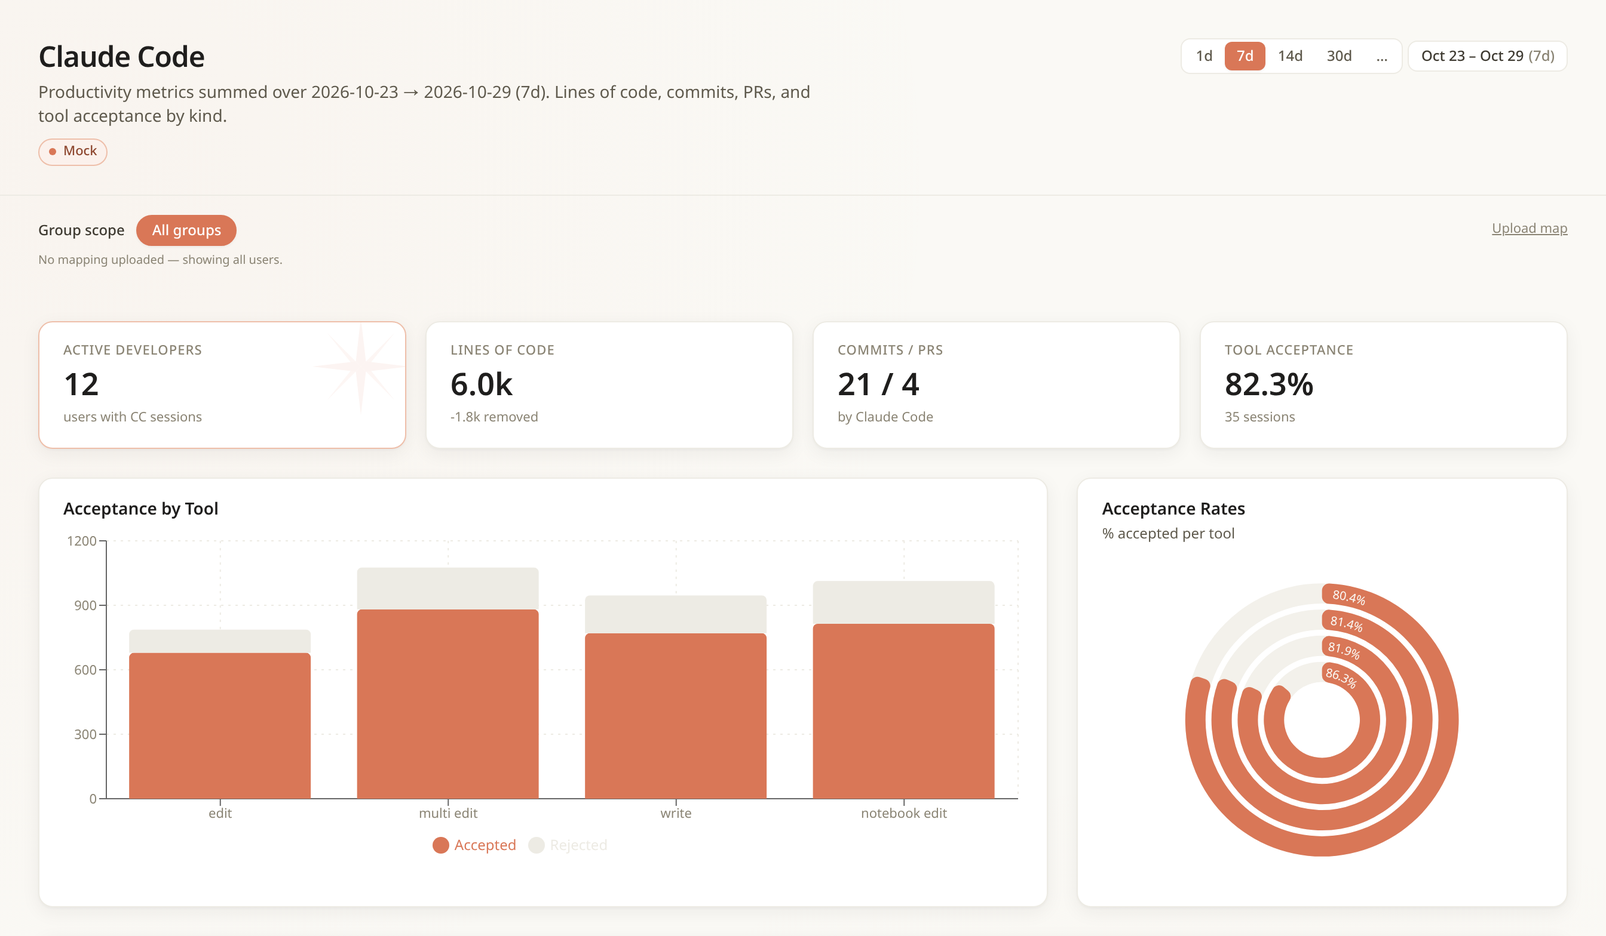
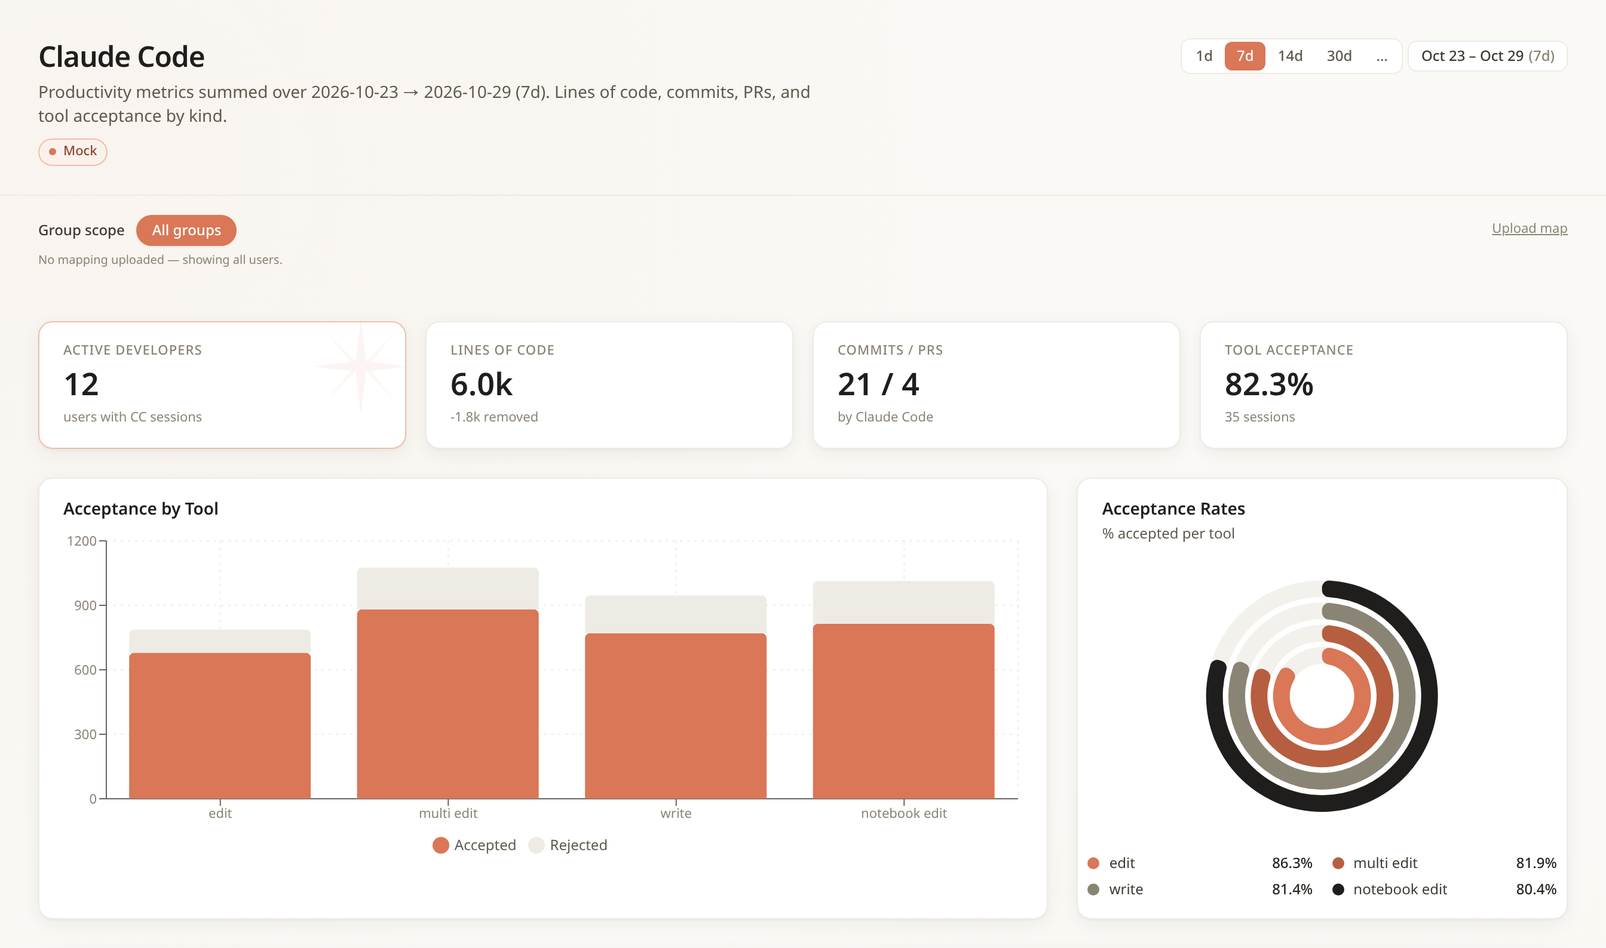
docs(site): 브로셔에 릴리스 기록 타임라인 추가, 표기 수정 화면 3장 재캡처, 내비 줄바꿈 수정
- 릴리스 기록(#releases): kiro-dashboard 브로셔 형식의 세로 타임라인 — 최신 순 14카드
  (버전·날짜·주제 칩·핵심 변화, 최신 카드 강조 + "최신" 칩), v1.6.0+는 GitHub 태그 링크(↗),
  같은 날 연속 릴리스는 묶음 카드(v1.0→v1.5, v0.7→v0.9, v0.2→v0.6), CHANGELOG·Releases 버튼.
  상단 메뉴 "릴리스", 푸터 "최신 릴리스 v2.7.0" 링크
- 콘텐츠 리뷰 89점(14카드 날짜·버전 귀속·태그 링크 전수 대조) 지적 반영: v1.6(지출 기반 추정)과
  v1.8(실제 멤버십 동기화) 구분, v2.6 기존 동작 표현, v2.7 화면 목록, v2.2·v2.3 머리글, 어휘 다듬기,
  한국어 킥커, role="list", 기간 <time> 분리, .mono 고정폭
- 내비: 링크 추가로 1180px 고정 폭이 넘쳐 데스크톱 전 폭에서 글자가 꺾이던 문제(881~1100px은 기존
  결함) — nowrap + 1220px 이하 브랜드 칩·1040px 이하 앵커 2개 숨김 + 380px 이하 압축, 320~1600px
  스윕으로 넘침 0 확인. 본문 word-break:keep-all로 한국어 낱말 중간 줄바꿈 방지
- 재캡처: Overview("added on 날짜"), Claude Code(링 색 구분 + 범례), Cost("Cost reports API" 부제)
  — 운영 배포(:127) 이후 화면과 일치

diff --git a/site/index.html b/site/index.html
@@ -58,6 +58,8 @@
     font-family:var(--sans); font-size:17px; line-height:1.6;
     font-feature-settings:"ss01","cv01"; -webkit-font-smoothing:antialiased;
     text-rendering:optimizeLegibility; overflow-x:hidden;
+    /* Korean wraps between words, not inside them; long ids may still break. */
+    word-break:keep-all; overflow-wrap:anywhere;
   }
   body::before{
     content:""; position:fixed; inset:0; z-index:0; pointer-events:none; opacity:.5;
@@ -79,11 +81,12 @@
   }
   .nav-in{display:flex; align-items:center; gap:24px; height:64px}
   .brand{display:flex; align-items:center; gap:11px; font-weight:600; letter-spacing:-.01em}
+  .nav .brand{white-space:nowrap}
   .brand .mark{width:30px; height:30px}
   .brand b{font-family:var(--serif); font-weight:600; font-size:20px; letter-spacing:-.02em}
   .brand .mono{font-family:var(--mono); font-size:11px; color:var(--text-3); padding:2px 7px; border:1px solid var(--line-2); border-radius:99px; letter-spacing:0}
-  .nav-links{margin-left:auto; display:flex; gap:28px; align-items:center}
-  .nav-links a{font-size:14.5px; color:var(--text-2); transition:color .2s}
+  .nav-links{margin-left:auto; display:flex; gap:22px; align-items:center}
+  .nav-links a{font-size:14.5px; color:var(--text-2); transition:color .2s; white-space:nowrap}
   .nav-links a:hover{color:var(--brand-ink)}
   .nav-gh{display:inline-flex; align-items:center; gap:7px}
   .nav-cta{
@@ -91,7 +94,18 @@
     padding:9px 16px; border-radius:99px; transition:transform .2s, background .2s; white-space:nowrap;
   }
   .nav-cta:hover{background:var(--acc-700); transform:translateY(-1px)}
+  /* Labels never wrap; as the bar narrows, drop the brand pill, then the two
+     anchors whose sections sit next to others still linked. */
+  @media (max-width:1220px){ .nav .brand .mono{display:none} }
+  @media (max-width:1040px){ .nav-links a[href="#value"], .nav-links a[href="#trust"]{display:none} }
   @media (max-width:880px){ .nav-links a:not(.nav-cta){display:none} }
+  @media (max-width:380px){
+    .nav .nav-in{gap:8px}
+    .nav .brand{gap:8px}
+    .nav .brand .mark{width:24px; height:24px}
+    .nav .brand b{font-size:15px}
+    .nav .nav-cta{padding:7px 11px; font-size:13px}
+  }
   @media (max-width:640px){
     .brand .mono{display:none}
     .brand b{font-size:17px; white-space:nowrap}
@@ -278,6 +292,38 @@
   .cta-box .btn-ghost:hover{border-color:var(--paper)}
   .cta-box .mono{font-family:var(--mono); font-size:13px}
 
+  /* ---------- release timeline ---------- */
+  .timeline{list-style:none; margin:0; padding:0; position:relative; display:flex; flex-direction:column; gap:16px; max-width:900px}
+  .timeline::before{content:""; position:absolute; left:11px; top:26px; bottom:26px; width:2px; background:var(--line-2)}
+  .rel{display:grid; grid-template-columns:24px 1fr; gap:18px; position:relative}
+  .rel-dot{width:14px; height:14px; border-radius:99px; background:var(--surface); border:2px solid var(--ink-200); margin:24px auto 0; position:relative; z-index:1}
+  .rel-hi .rel-dot{background:var(--brand); border-color:var(--brand); box-shadow:0 0 0 5px rgba(217,119,87,.18)}
+  .rel-card{background:var(--surface); border:1px solid var(--line); border-radius:var(--r); padding:20px 24px; box-shadow:var(--shadow-card)}
+  .rel-hi .rel-card{border-color:var(--acc-200); background:linear-gradient(180deg, var(--acc-50), var(--surface) 70%)}
+  .rel-head{display:flex; align-items:baseline; flex-wrap:wrap; gap:6px 12px; margin-bottom:12px}
+  .rel-ver{font-weight:800; font-size:20px; letter-spacing:-.02em; color:var(--text); margin:0}
+  .rel-ver a{color:inherit; text-decoration:none}
+  .rel-ver a:hover{color:var(--brand-ink); text-decoration:underline; text-underline-offset:3px}
+  .rel-ver a::after{content:"↗"; content:"↗" / ""; font-size:.62em; font-weight:600; margin-left:3px; color:var(--text-3); vertical-align:.45em}
+  .rel-ver .sep{color:var(--text-3); font-weight:500; margin:0 2px}
+  .rel-hi .rel-ver{color:var(--brand-ink)}
+  .rel-latest{font-family:var(--mono); font-size:11px; letter-spacing:.06em; text-transform:uppercase; color:var(--white); background:var(--brand-ink); border-radius:99px; padding:2px 9px}
+  .rel-date{font-family:var(--mono); font-size:12px; color:var(--text-3)}
+  .rel-theme{font-size:12.5px; color:var(--text-2); background:var(--sunken); border:1px solid var(--line); border-radius:99px; padding:3px 11px}
+  .rel-feats{list-style:none; margin:0; padding:0; display:grid; gap:7px}
+  .rel-feats li{position:relative; padding-left:18px; color:var(--text-2); font-size:14.5px; line-height:1.55}
+  .mono{font-family:var(--mono)}
+  .rel-feats .mono, .checklist .mono{font-size:.92em}
+  .rel-feats li::before{content:""; position:absolute; left:2px; top:.62em; width:6px; height:6px; border-radius:2px; background:var(--brand); opacity:.7}
+  .rel-more{margin-top:28px; display:flex; flex-wrap:wrap; gap:12px}
+  @media (max-width:640px){
+    .timeline::before{left:7px}
+    .rel{grid-template-columns:16px 1fr; gap:12px}
+    .rel-dot{width:12px; height:12px}
+    .rel-card{padding:16px 18px}
+    .rel-ver{font-size:18px}
+  }
+
   /* ---------- footer ---------- */
   footer{border-top:1px solid var(--line); padding:40px 0; margin-top:80px}
   .foot-in{display:flex; flex-direction:column; gap:10px; align-items:center; justify-content:center; text-align:center; font-size:13px; color:var(--text-3)}
@@ -349,6 +395,7 @@
       <a href="#screens">화면 둘러보기</a>
       <a href="#architecture">동작 원리</a>
       <a href="#trust">데이터 & 보안</a>
+      <a href="#releases">릴리스</a>
       <a class="nav-gh" href="https://github.com/whchoi98/claude-code-dashboard" target="_blank" rel="noopener" aria-label="GitHub 저장소 (새 창)">
         <svg width="16" height="16" viewBox="0 0 16 16" fill="currentColor" aria-hidden="true" focusable="false"><path d="M8 0C3.58 0 0 3.58 0 8c0 3.54 2.29 6.53 5.47 7.59.4.07.55-.17.55-.38 0-.19-.01-.82-.01-1.49-2.01.37-2.53-.49-2.69-.94-.09-.23-.48-.94-.82-1.13-.28-.15-.68-.52-.01-.53.63-.01 1.08.58 1.23.82.72 1.21 1.87.87 2.33.66.07-.52.28-.87.51-1.07-1.78-.2-3.64-.89-3.64-3.95 0-.87.31-1.59.82-2.15-.08-.2-.36-1.02.08-2.12 0 0 .67-.21 2.2.82a7.5 7.5 0 0 1 2-.27c.68 0 1.36.09 2 .27 1.53-1.04 2.2-.82 2.2-.82.44 1.1.16 1.92.08 2.12.51.56.82 1.27.82 2.15 0 3.07-1.87 3.75-3.65 3.95.29.25.54.73.54 1.48 0 1.07-.01 1.93-.01 2.2 0 .21.15.46.55.38A8.01 8.01 0 0 0 16 8c0-4.42-3.58-8-8-8z"/></svg>
         GitHub
@@ -559,7 +606,7 @@
         </div>
       </figure>
       <figure class="shot-card reveal">
-        <button type="button" class="shot-img" data-lightbox-index="3"><img src="img/claude-code.png" loading="lazy" alt="활성 개발자, LOC, 커밋·PR, 도구 수락률 KPI와 도구별 수락·거절 막대 차트, 도구별 수락률 방사형 막대 차트를 보여주는 Claude Code 화면 — 합성 데이터" width="2688" height="1568"><span class="zoom-hint">크게 보기 <span aria-hidden="true">⤢</span></span></button>
+        <button type="button" class="shot-img" data-lightbox-index="3"><img src="img/claude-code.png" loading="lazy" alt="활성 개발자, LOC, 커밋·PR, 도구 수락률 KPI와 도구별 수락·거절 막대 차트, 도구별 수락률 방사형 막대 차트를 보여주는 Claude Code 화면 — 합성 데이터" width="2688" height="1588"><span class="zoom-hint">크게 보기 <span aria-hidden="true">⤢</span></span></button>
         <div class="shot-body">
           <div class="shot-kicker">Claude Code</div>
           <h3>코드 생산성 지표</h3>
@@ -734,6 +781,178 @@
   </div>
 </section>
 
+<!-- ===================== RELEASES ===================== -->
+<section class="sec" id="releases" style="padding-top:0" tabindex="-1">
+  <div class="wrap">
+    <div class="sec-head reveal">
+      <div class="kicker">릴리스 기록 · v0.1 → v2.7</div>
+      <h2>첫 출시부터 지금까지, <em>릴리스로 보는 성장</em>.</h2>
+      <p>11개 화면으로 시작한 v0.1 이후 도구 호출 챗봇(v0.7), 그룹별 비용(v1.6), 멀티 조직(v2.0), 비용 실시간(v2.2)을 거쳐 Chat·Cowork 통합(v2.7)까지 왔습니다. 주요 버전의 핵심 변화를 최신 순으로 모았습니다.</p>
+    </div>
+    <ol class="timeline" role="list" aria-label="릴리스 기록, 최신 순">
+    <li class="rel rel-hi reveal">
+      <span class="rel-dot" aria-hidden="true"></span>
+      <div class="rel-card">
+        <div class="rel-head">
+          <h3 class="rel-ver"><a href="https://github.com/whchoi98/claude-code-dashboard/releases/tag/v2.7.0" target="_blank" rel="noopener">v2.7.0<span class="sr-only"> 릴리스 노트(새 창)</span></a></h3>
+          <span class="rel-latest">최신</span>
+          <time class="rel-date" datetime="2026-10-29">2026-10-29</time>
+          <span class="rel-theme">Chat·Cowork 통합 · 그룹 활동 · 플러그인 카탈로그</span>
+        </div>
+        <ul class="rel-feats" role="list"><li>Chat·Cowork 통합(Chat and Cowork unified) 활동을 Chat·Cowork·사용자·사용자 생산성·사용자 검색·Agentic·도입 집계와 사용자 상세 패널에 합산하고, 추세·Cowork에는 통합 활성 사용자를 별도 선으로 표시</li><li>사용자 생산성에 RBAC 그룹별 활동 비교 표</li><li>감사에 역할별 멤버와 사용자 지정 지침 저장 현황 — 지침 원문은 unmasked 그룹 관리자만 열람</li><li>도입에 Plugins API(beta) 플러그인 카탈로그와 아티팩트 카드, 컬렉터의 <span class="mono">artifacts_daily</span> 일일 보관</li><li>API 버전 2026-10-21의 필드 제거에 대비해 대체 필드(<span class="mono">actor.email_address</span>, <span class="mono">data</span>)로 전환</li></ul>
+      </div>
+    </li>
+    <li class="rel reveal">
+      <span class="rel-dot" aria-hidden="true"></span>
+      <div class="rel-card">
+        <div class="rel-head">
+          <h3 class="rel-ver"><a href="https://github.com/whchoi98/claude-code-dashboard/releases/tag/v2.6.0" target="_blank" rel="noopener">v2.6.0<span class="sr-only"> 릴리스 노트(새 창)</span></a></h3>
+          <time class="rel-date" datetime="2026-10-29">2026-10-29</time>
+          <span class="rel-theme">Claude Sonnet 5.5</span>
+        </div>
+        <ul class="rel-feats" role="list"><li>AI 분석과 플로팅 챗봇을 Claude Sonnet 4.6에서 Claude Sonnet 5.5(Bedrock 글로벌 추론 프로필)로 전환 — 후속 질문 생성도 같은 모델</li><li>요청이 거절되면 빈 답변 대신 상태 메시지를 표시 — 도구 호출 사이의 진행 메모는 전처럼 표시</li></ul>
+      </div>
+    </li>
+    <li class="rel reveal">
+      <span class="rel-dot" aria-hidden="true"></span>
+      <div class="rel-card">
+        <div class="rel-head">
+          <h3 class="rel-ver"><a href="https://github.com/whchoi98/claude-code-dashboard/releases/tag/v2.5.0" target="_blank" rel="noopener">v2.5.0<span class="sr-only"> 릴리스 노트(새 창)</span></a></h3>
+          <time class="rel-date" datetime="2026-09-26">2026-09-26</time>
+          <span class="rel-theme">제품별 추세 · 도입 심화 · 감사 정확도</span>
+        </div>
+        <ul class="rel-feats" role="list"><li>추세에 제품별 활성 사용자 차트(Claude Code·Chat·Cowork·Claude Design·Office Agents·Claude Science), DAU/WAU/MAU 전환</li><li>도입에 스킬 사용·지출, 커넥터 읽기·쓰기 호출, <span class="mono">third-party</span> 플러그인 집계</li><li>감사 위험·로그인 분류를 API 활동 타입에 맞추고 행위자 11종을 식별하며, 1,000건 단위 페이지 조회로 감사 API 요청을 약 10분의 1로 줄임</li><li>2026-09-24 이전에 보관된 파일·아티팩트 이름은 관리자만 열람</li></ul>
+      </div>
+    </li>
+    <li class="rel reveal">
+      <span class="rel-dot" aria-hidden="true"></span>
+      <div class="rel-card">
+        <div class="rel-head">
+          <h3 class="rel-ver"><a href="https://github.com/whchoi98/claude-code-dashboard/releases/tag/v2.4.0" target="_blank" rel="noopener">v2.4.0<span class="sr-only"> 릴리스 노트(새 창)</span></a></h3>
+          <time class="rel-date" datetime="2026-09-22">2026-09-22</time>
+          <span class="rel-theme">탐색 · 내보내기 · 안정성</span>
+        </div>
+        <ul class="rel-feats" role="list"><li>Ctrl/⌘+K 메뉴 검색, 사용자·비용 실시간 표의 CSV 내보내기(화면과 같은 마스킹, 수식 실행 방지)</li><li>키보드 정렬·모바일 포커스 관리·조회 재시도와 프런트엔드·브라우저 회귀 테스트</li><li>화면별 지연 로딩과 오류 복구, 오래된 조회 취소·시간 초과 처리</li></ul>
+      </div>
+    </li>
+    <li class="rel reveal">
+      <span class="rel-dot" aria-hidden="true"></span>
+      <div class="rel-card">
+        <div class="rel-head">
+          <h3 class="rel-ver"><a href="https://github.com/whchoi98/claude-code-dashboard/releases/tag/v2.2.0" target="_blank" rel="noopener">v2.2.0<span class="sr-only"> 릴리스 노트(새 창)</span></a><span class="sep" aria-hidden="true">·</span><a href="https://github.com/whchoi98/claude-code-dashboard/releases/tag/v2.3.0" target="_blank" rel="noopener">v2.3.0<span class="sr-only"> 릴리스 노트(새 창)</span></a></h3>
+          <time class="rel-date" datetime="2026-09-01">2026-09-01</time>
+          <span class="rel-theme">비용 실시간 · 홈 화면 앱</span>
+        </div>
+        <ul class="rel-feats" role="list"><li>Spend Limits API 기반 비용 실시간(MTD) 페이지 — 멤버별 월 누적 지출·한도, 그룹별 합계, 자동 갱신</li><li>v2.3.0(같은 날): 월 누적 지출을 15분마다 S3에 보관해 과거 시점을 조회하고, 보관 전 날짜는 그날 마감 기준 값으로 재구성</li><li>로그인 계정 권한(Cognito <span class="mono">unmasked</span> 그룹)에 따른 이메일 마스킹, iOS·iPadOS 홈 화면 설치</li></ul>
+      </div>
+    </li>
+    <li class="rel reveal">
+      <span class="rel-dot" aria-hidden="true"></span>
+      <div class="rel-card">
+        <div class="rel-head">
+          <h3 class="rel-ver"><a href="https://github.com/whchoi98/claude-code-dashboard/releases/tag/v2.0.0" target="_blank" rel="noopener">v2.0.0<span class="sr-only"> 릴리스 노트(새 창)</span></a></h3>
+          <time class="rel-date" datetime="2026-07-22">2026-07-22</time>
+          <span class="rel-theme">멀티 조직 · 감사 아카이브</span>
+        </div>
+        <ul class="rel-feats" role="list"><li>두 번째 Anthropic 구독을 사이드바에서 전환하는 멀티 조직 지원</li><li>감사 이벤트를 S3·Athena(<span class="mono">compliance_daily</span>)로 보관하고 이벤트 상세 패널 추가</li><li>31일을 넘는 모든 조회 기간의 수치 오류 수정 — 비용 리포트는 31일 구간으로 나눠 병합</li><li>컬렉터 원본 사이드카 보관, 공개 브로셔(GitHub Pages)</li></ul>
+      </div>
+    </li>
+    <li class="rel reveal">
+      <span class="rel-dot" aria-hidden="true"></span>
+      <div class="rel-card">
+        <div class="rel-head">
+          <h3 class="rel-ver"><a href="https://github.com/whchoi98/claude-code-dashboard/releases/tag/v1.9.0" target="_blank" rel="noopener">v1.9.0<span class="sr-only"> 릴리스 노트(새 창)</span></a></h3>
+          <time class="rel-date" datetime="2026-07-12">2026-07-12</time>
+          <span class="rel-theme">Claude Chat · 모바일</span>
+        </div>
+        <ul class="rel-feats" role="list"><li>Claude Chat 페이지 — 대화·프로젝트 사용량과 사용자별 표</li><li>사용자별 캐시 효율, 사용자 표 열 확장, Claude Code 사용자별 표</li><li>모바일 지원 — 슬라이드 메뉴와 반응형 레이아웃</li></ul>
+      </div>
+    </li>
+    <li class="rel reveal">
+      <span class="rel-dot" aria-hidden="true"></span>
+      <div class="rel-card">
+        <div class="rel-head">
+          <h3 class="rel-ver"><a href="https://github.com/whchoi98/claude-code-dashboard/releases/tag/v1.8.0" target="_blank" rel="noopener">v1.8.0<span class="sr-only"> 릴리스 노트(새 창)</span></a></h3>
+          <time class="rel-date" datetime="2026-07-12">2026-07-12</time>
+          <span class="rel-theme">실제 그룹 멤버십 동기화 · 응답 속도</span>
+        </div>
+        <ul class="rel-feats" role="list"><li>Compliance 멤버 API로 실제 RBAC 그룹 구성원을 받아 1시간 안에 반영</li><li>비용 페이지에 그룹 범위 적용, 사용자별 모델 지출</li><li>비용 응답 10분 캐시·keep-warm·전송 압축으로 응답 속도 개선</li></ul>
+      </div>
+    </li>
+    <li class="rel reveal">
+      <span class="rel-dot" aria-hidden="true"></span>
+      <div class="rel-card">
+        <div class="rel-head">
+          <h3 class="rel-ver"><a href="https://github.com/whchoi98/claude-code-dashboard/releases/tag/v1.7.0" target="_blank" rel="noopener">v1.7.0<span class="sr-only"> 릴리스 노트(새 창)</span></a></h3>
+          <time class="rel-date" datetime="2026-07-08">2026-07-08</time>
+          <span class="rel-theme">Agentic · 페이지별 그룹 탭</span>
+        </div>
+        <ul class="rel-feats" role="list"><li>Agentic 페이지 — 프롬프트당 액션·위임 지표</li><li>그룹 범위를 사이드바 선택에서 페이지별 탭으로 이동, 사용자 상세 패널 확장</li></ul>
+      </div>
+    </li>
+    <li class="rel reveal">
+      <span class="rel-dot" aria-hidden="true"></span>
+      <div class="rel-card">
+        <div class="rel-head">
+          <h3 class="rel-ver"><a href="https://github.com/whchoi98/claude-code-dashboard/releases/tag/v1.6.0" target="_blank" rel="noopener">v1.6.0<span class="sr-only"> 릴리스 노트(새 창)</span></a></h3>
+          <time class="rel-date" datetime="2026-07-04">2026-07-04</time>
+          <span class="rel-theme">그룹별 비용 · 지출 한도</span>
+        </div>
+        <ul class="rel-feats" role="list"><li>그룹별 비용·월간 지출 한도 카드, 라이브 사용자별 토큰 표</li><li>지출 기록으로 그룹 자동 추정, 전용 Compliance 키가 없으면 Analytics 키로 자동 대체</li><li>CSV 지출 리포트를 폴백·대조용으로 전환 — 라이브 비용 리포트가 기본</li></ul>
+      </div>
+    </li>
+    <li class="rel reveal">
+      <span class="rel-dot" aria-hidden="true"></span>
+      <div class="rel-card">
+        <div class="rel-head">
+          <h3 class="rel-ver">v1.0 → v1.5</h3>
+          <time class="rel-date" datetime="2026-06-17">2026-06-17</time>
+          <span class="rel-theme">제품별 페이지 · 그룹 범위</span>
+        </div>
+        <ul class="rel-feats" role="list"><li>Cowork 페이지(1.0), Office·Design 페이지(1.1)</li><li>비용 효율 점수 재설계(1.2·1.3), 대시보드 전반의 그룹 범위(1.4·1.5)</li></ul>
+      </div>
+    </li>
+    <li class="rel reveal">
+      <span class="rel-dot" aria-hidden="true"></span>
+      <div class="rel-card">
+        <div class="rel-head">
+          <h3 class="rel-ver">v0.7 → v0.9</h3>
+          <span class="rel-date"><time datetime="2026-06-09">2026-06-09</time> – <time datetime="2026-06-12">06-12</time></span>
+          <span class="rel-theme">도구 호출 챗봇</span>
+        </div>
+        <ul class="rel-feats" role="list"><li>AI 분석을 다중 턴 도구 호출 챗봇으로 — 모든 화면의 플로팅 채팅과 후속 질문 제안(0.7)</li><li>라이브 사용자별 비용과 비용 페이지 확장(0.8), Office·Design·Cowork 지표 수집(0.9)</li></ul>
+      </div>
+    </li>
+    <li class="rel reveal">
+      <span class="rel-dot" aria-hidden="true"></span>
+      <div class="rel-card">
+        <div class="rel-head">
+          <h3 class="rel-ver">v0.2 → v0.6</h3>
+          <span class="rel-date"><time datetime="2026-05-08">2026-05-08</time> – <time datetime="2026-05-10">05-10</time></span>
+          <span class="rel-theme">라이브 비용 · 로그인</span>
+        </div>
+        <ul class="rel-feats" role="list"><li>Analytics API 라이브 비용, Cognito + Lambda@Edge 로그인(0.2)</li><li>사용자 검색·변경 내역 페이지(0.3), PDF·Markdown 내보내기(0.4), 경영 요약(0.5), 통계 표 정렬(0.6)</li></ul>
+      </div>
+    </li>
+    <li class="rel reveal">
+      <span class="rel-dot" aria-hidden="true"></span>
+      <div class="rel-card">
+        <div class="rel-head">
+          <h3 class="rel-ver">v0.1.0</h3>
+          <time class="rel-date" datetime="2026-04-22">2026-04-22</time>
+          <span class="rel-theme">첫 출시</span>
+        </div>
+        <ul class="rel-feats" role="list"><li>React 18 + Vite 대시보드 11개 화면, Analytics·Admin·Compliance API를 묶는 Express 프록시</li><li>S3 일일 스냅샷과 Glue·Athena 조회, Bedrock 자연어 분석</li><li>CloudFront·WAF·ALB·ECS Fargate를 AWS CDK로 배포, 한국어·영어 전환</li></ul>
+      </div>
+    </li>
+    </ol>
+    <div class="rel-more reveal">
+      <a href="https://github.com/whchoi98/claude-code-dashboard/blob/main/CHANGELOG.md" class="btn btn-ghost" target="_blank" rel="noopener">전체 변경 내역 (CHANGELOG)<span class="sr-only">(새 창)</span></a>
+      <a href="https://github.com/whchoi98/claude-code-dashboard/releases" class="btn btn-ghost" target="_blank" rel="noopener">GitHub Releases<span class="sr-only">(새 창)</span></a>
+    </div>
+  </div>
+</section>
+
 <!-- ===================== CLOSING CTA ===================== -->
 <section class="wrap cta" id="start">
   <div class="cta-box reveal">
@@ -759,7 +978,7 @@
       <span>Claude Code Dashboard — Claude Code 조직 분석 대시보드</span>
     </div>
     <div class="mono">Anthropic Analytics · Compliance API — React · Express · ECS Fargate · Bedrock · Athena</div>
-    <div><a href="https://github.com/whchoi98/claude-code-dashboard" target="_blank" rel="noopener">GitHub에서 소스 보기<span class="sr-only">(새 창)</span></a></div>
+    <div><a href="https://github.com/whchoi98/claude-code-dashboard" target="_blank" rel="noopener">GitHub에서 소스 보기<span class="sr-only">(새 창)</span></a> · <a href="https://github.com/whchoi98/claude-code-dashboard/releases/tag/v2.7.0" target="_blank" rel="noopener">최신 릴리스 v2.7.0 (2026-10-29)<span class="sr-only">(새 창)</span></a></div>
     <div>본 대시보드는 독립적으로 개발된 분석 도구로, Anthropic의 공식 제품이 아닙니다. Anthropic, Claude는 Anthropic PBC의 상표이며, Amazon Web Services, AWS 관련 명칭은 Amazon.com, Inc. 또는 계열사의 상표입니다.</div>
   </div>
 </footer>
